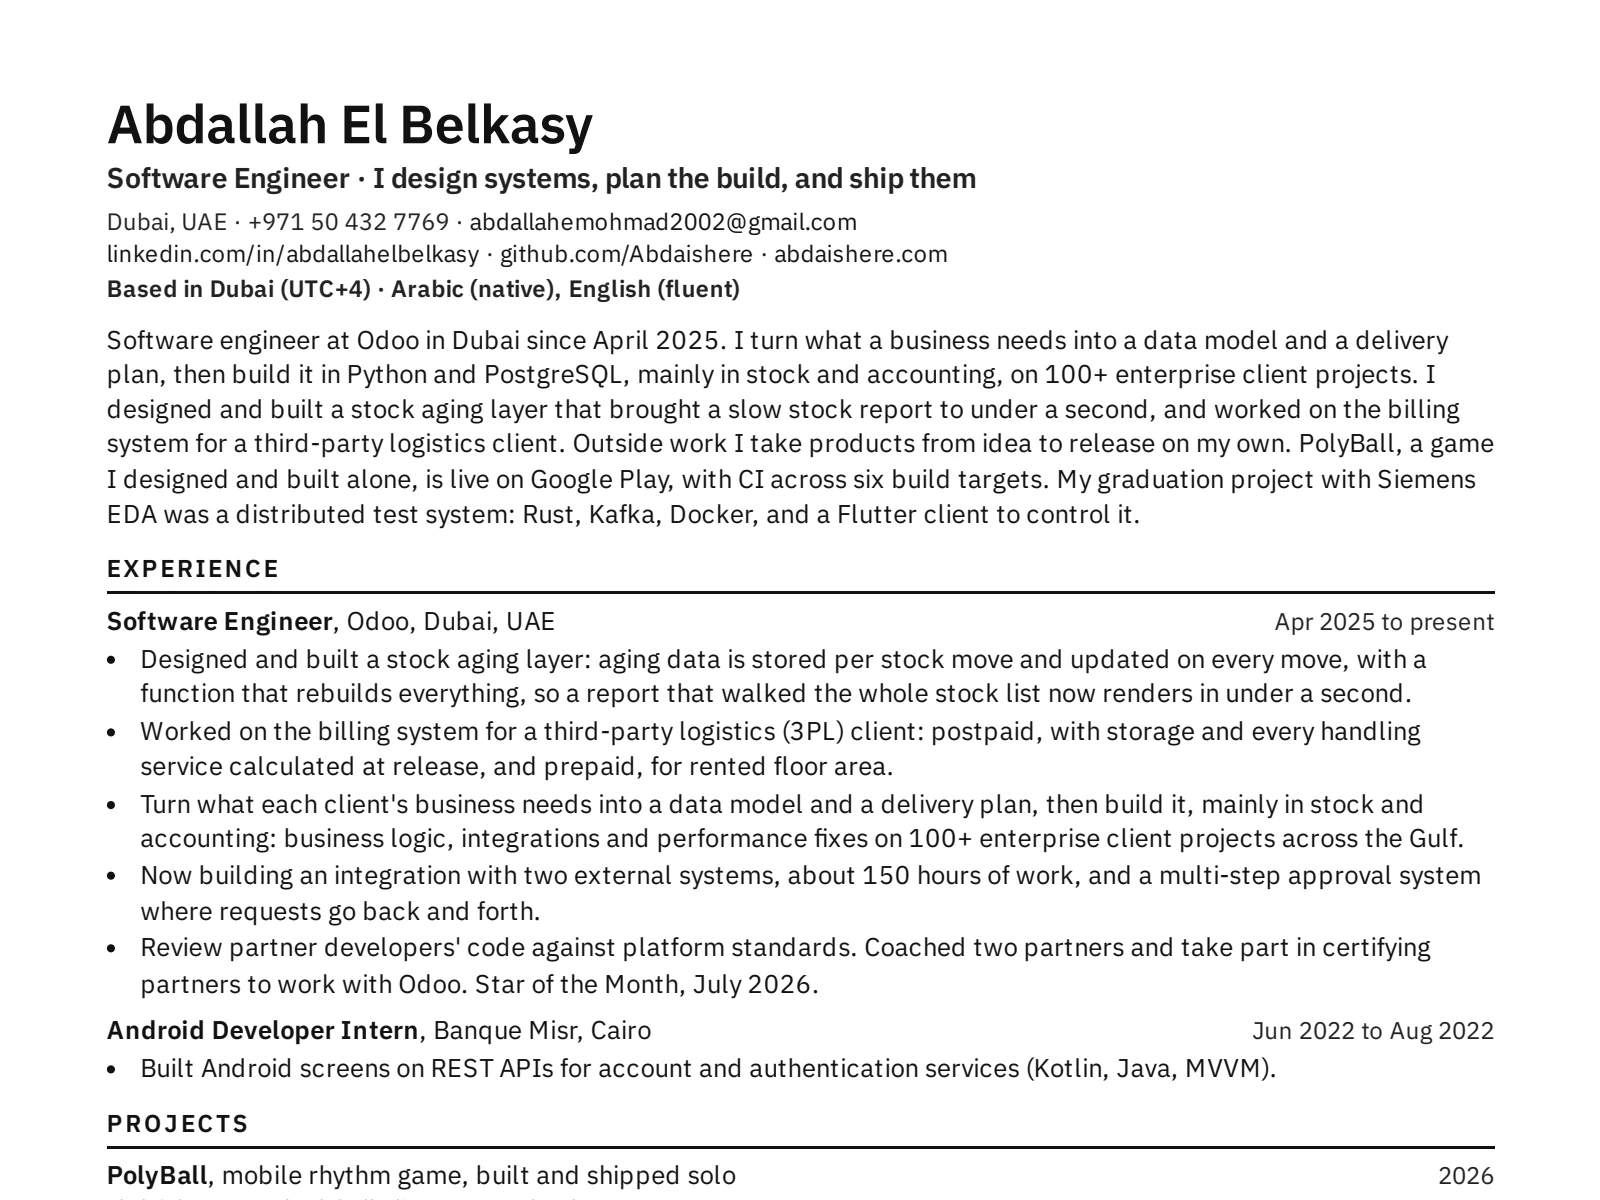
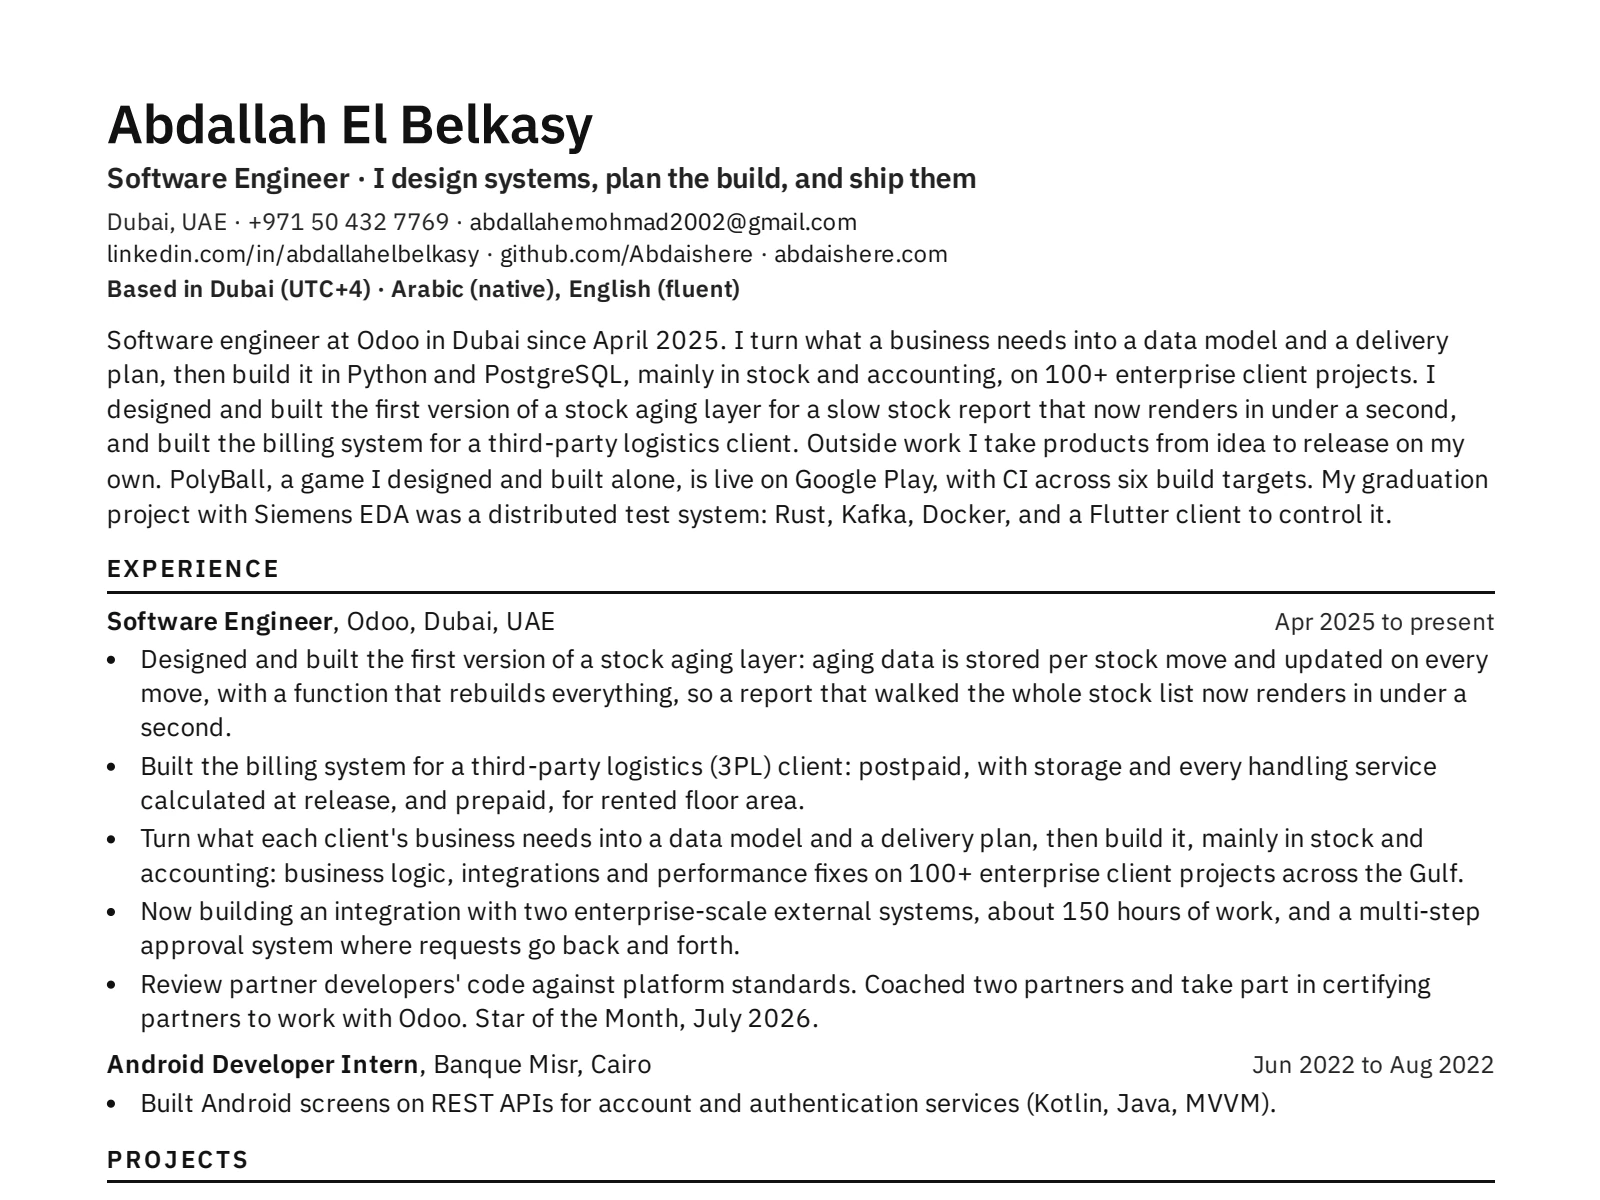
site: publish landing page, privacy policy, deletion page, and app-ads.txt

Changed region(s): [[0.0625, 0.5242, 0.9375, 0.9867], [0.0625, 0.3392, 0.9375, 0.4625]]

diff --git a/cv/index.html b/cv/index.html
@@ -132,7 +132,7 @@
         <p class="lede">The current job and the two projects first, then the internship and the degree. Nothing here is new after you download it.</p>
       </div>
       <ol role="list" class="rows" aria-label="Experience and projects">
-        <li id="odoo"><span class="when">Apr 2025 to now</span><span class="what"><b>Odoo · Software Engineer, Dubai.</b> Designed and built a stock aging layer: aging data is stored per stock move and updated on every move, with a function that rebuilds everything, so a report that walked the whole stock list now renders in under a second. Worked on the billing system for a third-party logistics (3PL) client: postpaid, with storage and every handling service calculated at release, and prepaid, for rented floor area. I turn what each client's business needs into a data model and a delivery plan, then build it, mainly in stock and accounting: business logic, integrations and performance fixes on 100+ enterprise client projects across the Gulf. Now building an integration with two external systems, about 150 hours of work, and a multi-step approval system where requests go back and forth. I review partner developers' code against platform standards, have coached two partners and am involved in certifying partners to work with Odoo. Star of the Month, July 2026.</span></li>
+        <li id="odoo"><span class="when">Apr 2025 to now</span><span class="what"><b>Odoo · Software Engineer, Dubai.</b> Designed and built the first version of a stock aging layer: aging data is stored per stock move and updated on every move, with a function that rebuilds everything, so a report that walked the whole stock list now renders in under a second. Built the billing system for a third-party logistics (3PL) client: postpaid, with storage and every handling service calculated at release, and prepaid, for rented floor area. I turn what each client's business needs into a data model and a delivery plan, then build it, mainly in stock and accounting: business logic, integrations and performance fixes on 100+ enterprise client projects across the Gulf. Now building an integration with two enterprise-scale external systems, about 150 hours of work, and a multi-step approval system where requests go back and forth. I review partner developers' code against platform standards, have coached two partners and am involved in certifying partners to work with Odoo. Star of the Month, July 2026.</span></li>
         <li id="polyball"><span class="when">2026</span><span class="what"><b>PolyBall · mobile rhythm game, built and shipped solo.</b> Designed, built and released alone: live on <a href="https://play.google.com/store/apps/details?id=com.polyball.game">Google Play</a> in 178 countries after 19 tagged releases, 23 September to 13 November 2026. Release checks run across six build targets, with bots that play 24 runs per pass. 15 locales, with Arabic right-to-left layout covered by automated tests. A leaderboard backend with a monthly cup and server-side anti-cheat (score ceilings, run-code checks, name filter, block and report) on 11 SQL migrations with automated tests. An audio engine with 16 synthesised instruments, up to 12 notes at once, that plays every note at runtime, so the game ships no music files. Tools: Godot 4, GDScript, Supabase (PostgreSQL), GitHub Actions, Playwright. <a href="/polyball/">abdaishere.com/polyball</a>.</span></li>
         <li id="ejam"><span class="when">Jan to Aug 2023</span><span class="what"><b>E‑Jam · graduation project sponsored by Siemens EDA, Cairo University.</b> A distributed test bench that runs RFC 2544 and RFC 2889 benchmarks on network switches, built by a team of five mentored by Siemens EDA engineers. Top contributor with 256 commits. I built the control plane, a REST API that drives every stream, device and process through explicit state machines, and the admin client that configures tests and charts results live. Tools: Rust (Actix Web), Apache Kafka with Avro schemas, Flutter, Docker. <a href="/e-jam/">The case study</a> · open source, MIT: <a href="https://github.com/Abdaishere/E-Jam">github.com/Abdaishere/E-Jam</a>.</span></li>
       </ol>

diff --git a/index.html b/index.html
@@ -152,7 +152,7 @@
             </section>
             <section class="block">
               <h4>What I built</h4>
-              <p class="prose">A stock aging report was slow because it walked the whole stock list on every render. I designed and built a stock aging layer for it, modelled on the stock valuation layer: aging data is stored per stock move and updated on every move in or out, with a function that rebuilds everything. The report now renders in under a second. The biggest system I have worked on is the billing for a third-party logistics client, with two models: postpaid, where storage and every handling service are calculated at release, and prepaid, for rented floor area. Right now I am building an integration with two external systems, about 150 hours of work, and a multi-step approval system. I also review partner developers' code against Odoo's development standards, have coached two partners, and am involved in certifying partners to work with Odoo.</p>
+              <p class="prose">A stock aging report was slow because it walked the whole stock list on every render. I designed and built the first version of a stock aging layer for it, modelled on the stock valuation layer: aging data is stored per stock move and updated on every move in or out, with a function that rebuilds everything. The report now renders in under a second. The biggest system I have built is the billing for a third-party logistics client, with two models: postpaid, where storage and every handling service are calculated at release, and prepaid, for rented floor area. Right now I am building an integration with two enterprise-scale external systems, about 150 hours of work, and a multi-step approval system. I also review partner developers' code against Odoo's development standards, have coached two partners, and am involved in certifying partners to work with Odoo.</p>
             </section>
             <ul role="list" class="tags" aria-label="Technologies"><li>Python</li><li>PostgreSQL</li><li>Odoo ORM</li><li>JavaScript (OWL)</li><li>XML and QWeb</li><li>REST integrations</li></ul>
           </div>
@@ -163,7 +163,7 @@
                 <dd><b class="num">100+</b><span class="unit">projects</span><cite>CV · Odoo</cite></dd>
               </div>
               <div class="m">
-                <dt>A stock aging report, after the aging layer I designed and built.</dt>
+                <dt>A stock aging report, on the aging layer whose first version I designed and built.</dt>
                 <dd><b class="num">&lt;1</b><span class="unit">second</span><cite>CV · Odoo</cite></dd>
               </div>
             </dl>

diff --git a/index.html.md b/index.html.md
@@ -16,7 +16,7 @@ Markdown copy of [abdaishere.com](https://abdaishere.com/). His friends call him
 
 ### Odoo (April 2025 to present)
 
-Software Engineer on enterprise client projects in Dubai, for clients across the Gulf. He works directly with each client's team, maps what the business needs onto standard features, puts the rest into a data model and a delivery plan, and builds it in Python and PostgreSQL: business logic, integrations, database fixes and performance work, on more than 100 projects. He works mainly in stock and accounting, and sometimes in point of sale, e-commerce and HR. He designed and built a stock aging layer: aging data is stored per stock move and updated on every move, with a function that rebuilds everything, so a report that walked the whole stock list on every render now renders in under a second. He worked on the billing system for a third-party logistics client, the biggest system he has worked on, with a postpaid model (storage and every handling service calculated at release) and a prepaid model (rented floor area). He is now building an integration with two external systems, about 150 hours of work, and a multi-step approval system. He reviews partner developers' code against Odoo's development standards, has coached two partners and is involved in certifying partners to work with Odoo. Star of the Month, July 2026.
+Software Engineer on enterprise client projects in Dubai, for clients across the Gulf. He works directly with each client's team, maps what the business needs onto standard features, puts the rest into a data model and a delivery plan, and builds it in Python and PostgreSQL: business logic, integrations, database fixes and performance work, on more than 100 projects. He works mainly in stock and accounting, and sometimes in point of sale, e-commerce and HR. He designed and built the first version of a stock aging layer: aging data is stored per stock move and updated on every move, with a function that rebuilds everything, so a report that walked the whole stock list on every render now renders in under a second. He built the billing system for a third-party logistics client, the biggest system he has built, with a postpaid model (storage and every handling service calculated at release) and a prepaid model (rented floor area). He is now building an integration with two enterprise-scale external systems, about 150 hours of work, and a multi-step approval system. He reviews partner developers' code against Odoo's development standards, has coached two partners and is involved in certifying partners to work with Odoo. Star of the Month, July 2026.
 
 Daily stack: Python, PostgreSQL, the Odoo ORM, JavaScript (OWL), XML and QWeb, REST integrations.
 
